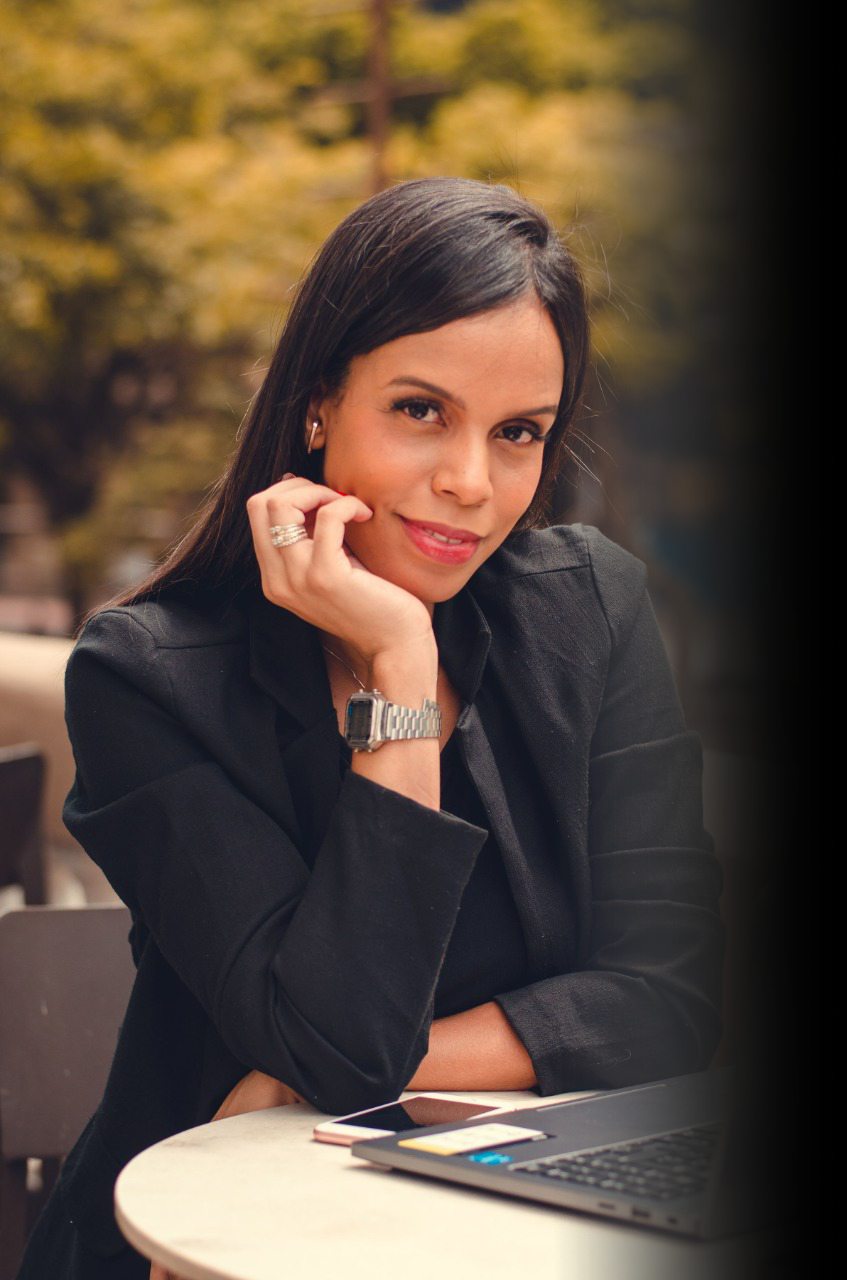
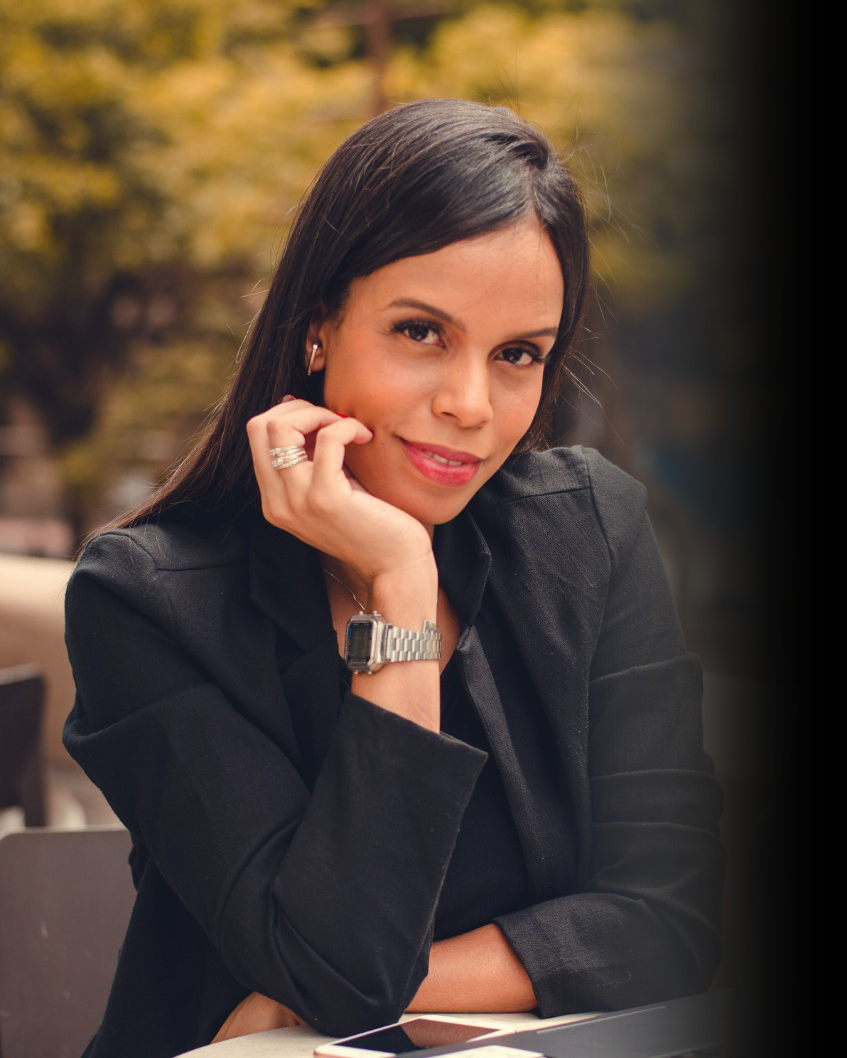
Transformando Grid em Flex

diff --git a/style.css b/style.css
@@ -16,44 +16,36 @@ a {
 .container{
     width: 100%;
     height: 100%;
-    display: grid;
-    grid-template-columns: repeat(3, 1fr);
-    grid-template-rows: 14fr 1fr;
+    display: flex;
     background-color: black;
+    flex-wrap: wrap;
 }
 
 #side-left{
-    grid-row: 1 / span 2;
-    grid-column: 1;
+  width: 40%;
 }
 
 .side-web img{
     width: 100%;
     height: 100vh;
     object-fit: cover;
-    object-position: right;
+    object-position: center right;
 }
 
 .side-mobile{
     display: none;
 }
 
-.side-tablet{
-    display: none;
-}
-
 main {
-    grid-column: 2;
-    grid-row: 1;
-    display: grid;
-    grid-template-columns: 1;
-    grid-template-rows: 6rem 5rem 3rem 1fr 5rem;
+    width: 40%;
+    display: flex;
     justify-content: center;
     align-items: center;
+    flex-wrap: wrap;
+    padding: 3.5rem;
 }
 
 .logo{
-    grid-row: 2;
     display: flex;
     align-items: center;
     justify-content: center;
@@ -64,7 +56,6 @@ main {
 }
 
 .infos {
-    grid-row: 4;
     display: flex;
     align-items: center;
     justify-content: center;
@@ -76,7 +67,6 @@ main {
 
 .infos > h1{
     font-size: 3rem;
-    width: 30rem;
 }
 
 .infos > button{
@@ -119,8 +109,7 @@ main {
 }
 
 #side-right{
-    grid-row: 1;
-    grid-column: 3;
+    width: 20%;
     display: flex;
     justify-content: right;
     align-items: flex-end;
@@ -129,72 +118,62 @@ main {
 #side-right img{
     width: 7rem;
     height: auto;
-    margin-right: 1.2rem;
-    margin-bottom: 1.5rem;
+    margin-right: 0.5rem;
+    margin-bottom: 1rem;
 }
 
 footer{
-    grid-row: 2;
-    background-color: #101010;
-    border-top: 0.2rem solid #1a1a1a;
-    box-shadow: 0.125rem 0.125rem 1.25rem rgb(0 0 0 / 50%);
-    grid-column: 1 / span 3;
-    font-size: 0.7rem;
-    color: lightgray;
     display: flex;
     align-items: center;
     justify-content: center;
+    width: 100%;
+    height: 3rem;
     padding: 0 2rem;
     text-align: center;
+    background-color: #101010;
+    /* border-top: 0.2rem solid #1a1a1a; */
+    box-shadow: 0.125rem 0.125rem 1.25rem rgb(0 0 0 / 50%);
+    font-size: 0.7rem;
+    color: lightgray;
 }
 
 @media screen and (max-width: 1080px){
-    .container{
-        grid-template-columns: 2fr 2fr 1fr;
-    } 
-
-    main{
-        grid-template-rows: 3rem 5rem 1rem 1fr 5rem;
+   
+    #side-left{
+        width: 60%;
     }
 
-    .logo img {
-        width: 18rem;
+    main {
+        width: 15%;
+        padding: 10rem 0;
+        margin: 0 2rem 0 0;
     }
+
     .infos {
-        width: 20rem;
+        width: 18rem;
     }
 
     .infos > h1{
-        font-size: 2.2rem;
-    }
-
-    .infos > p{
-        font-size: 0.9rem;
+        font-size: 2rem;
     }
 
     .infos > button{
-        width: 20rem;
-        height: 3.2rem;
-        font-size: 1rem;
-    }
-
-    #side-right img{
-        width: 5rem;
+        width: 14rem;
+        height: 4rem;
     }
 }
 
-@media screen and (max-width: 950px){
+@media screen and (max-width: 550px){
+    
     .container{
-        display: flex;
         flex-direction: column;
-        flex-wrap: wrap;
     }
 
     .side-web{
         display: none;
     }
 
-    .side-tablet{
+    .side-mobile{
         display: block;
     }
 
@@ -205,76 +184,38 @@ footer{
     }
 
     main {
-        display: flex;
         flex-direction: column;
-        justify-content: center;
-        align-items: center;
         width: 100%;
-        gap: 2rem;
+        padding: 0;
+        gap: 1rem;
     }
 
     .logo img {
         width: 85%;
     }
-
+    
     .infos{
-        gap: 2rem;
-        width: 30rem;
-    }
-
-    .infos h1{
-        font-size: 3.2rem;
-    }
-
-    .infos p{
-        font-size: 1.6rem;
+        gap: 1.5rem;
+        width: 100%;
+        padding: 0 3rem;
     }
 
     .infos > button{
-        width: 28rem;
-        height: 3.5rem;
-        font-size: 1.5rem;
+        width: 75%;
+        height: auto;
+        padding: 0.5rem;
     }
-    
 
     #side-right{
+        width: 100%;
+        display: flex;
         justify-content: center;
+        align-items: center;
         margin: 2rem 0 1rem 0;
     }
 
-    footer{
-        font-size: 1rem;
-        height: 5rem;
-    }
-}
-
-@media screen and (max-width: 550px){
-    
-    .side-tablet{
-        display: none;
-    }
-
-    .side-mobile{
-        display: block;
-    }
-    
-    .infos{
-        gap: 2rem;
-        width: 20rem;
-    }
-
-    .infos h1{
-        font-size: 2rem;
-    }
-
-    .infos p{
-        font-size: 1.1rem;
-    }
-
-    .infos > button{
-        width: 98%;
-        height: 3.2rem;
-        font-size: 1.1rem;
+    #side-right img{
+        margin: 0;
     }
     
     footer{

diff --git a/index.html b/index.html
@@ -16,10 +16,6 @@
                 <img src="./imgs/Barbara.png" alt="Foto da empresária Bárbara Lourenço com a mão esquerda segurando a lateral do rosto e sorrindo levemente.">
             </div>
 
-            <div class="side-tablet">
-                <img src="./imgs/Barbara_Tablet.png" alt="Foto da empresária Bárbara Lourenço com a mão esquerda segurando a lateral do rosto e sorrindo levemente.">
-            </div>
-
             <div class="side-mobile">
                 <img src="./imgs/Barbara_Mobile.png" alt="Foto da empresária Bárbara Lourenço com a mão esquerda segurando a lateral do rosto e sorrindo levemente.">
             </div>
@@ -48,10 +44,10 @@
         <aside id="side-right">
             <img src="./imgs/diamond.png">
         </aside>
-
         <footer>
             Método Posicionamento Lapidado © 2023 por Bárbara Lourenço. Todos os direitos reservados.
         </footer>
+
     </div>
 </body>
 </html>
